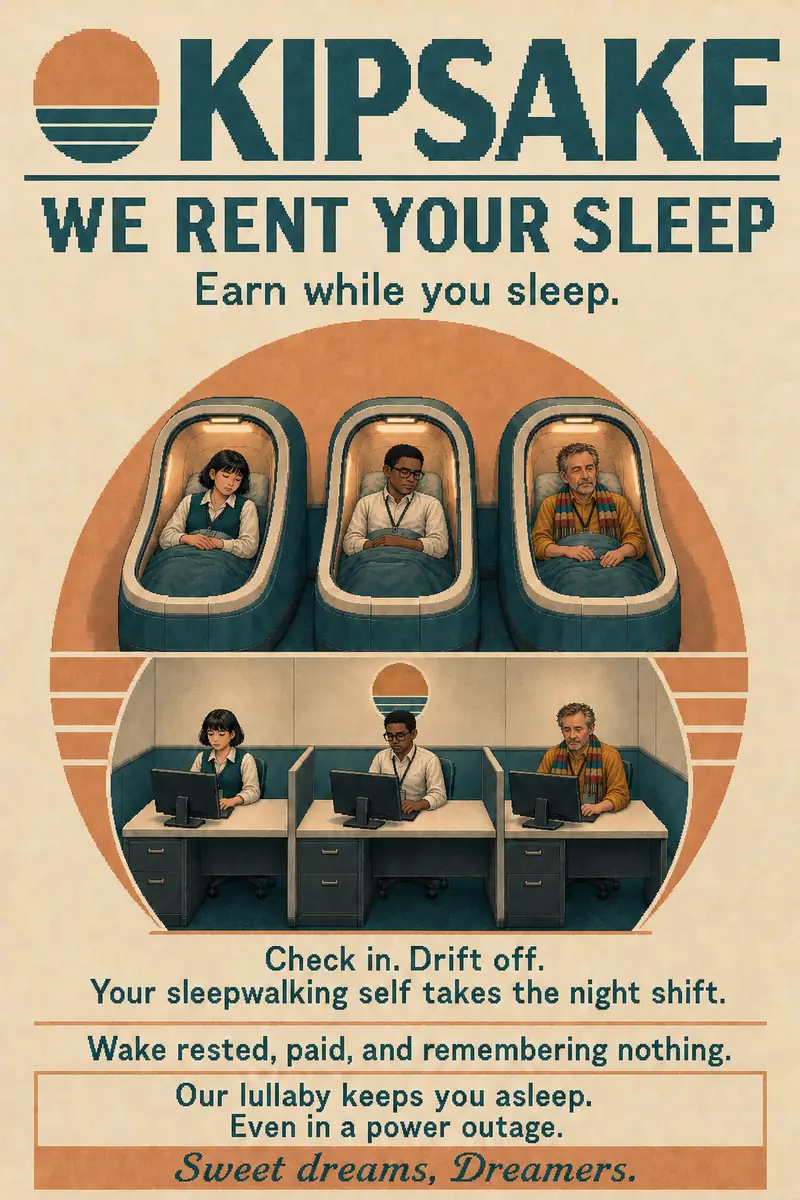
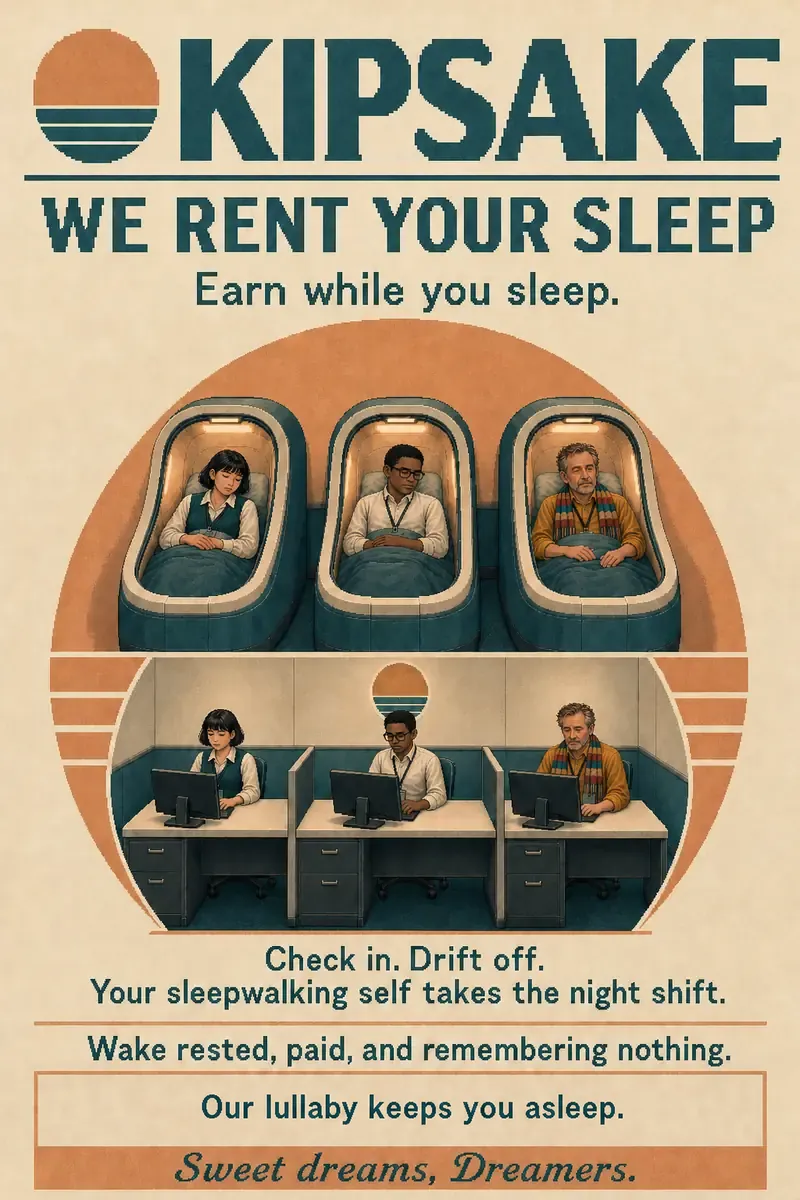
web, game: open the incident with "We need your help to solve a murder.", and drop "Even in a power outage." from the Kipsake ad
Panel 3 and the terminal's incident card now say the same in Kipsake's voice: Mr. Hale was found
dead in the elevator, and the woman standing over him was holding a cable. The flyer image keeps
its art and lettering, minus the power-outage line.

Changed region(s): [[0.2188, 0.8942, 0.7812, 0.9558]]

diff --git a/web/SPOILERS-content.js b/web/SPOILERS-content.js
@@ -19,14 +19,14 @@ window.DJ_CONTENT = {
  ],
  "advert": {
   "title": "Kipsake",
-  "body": "[A Kipsake advert. A presenter smiles at the camera.]\nHi! I'm with Kipsake.\nYou work hard all day. So why should your nights go to waste?\nAt Kipsake, we rent your sleep.\nEach night, you check in, settle into your pod, and drift off.\nYour sleepwalking self works the night shift for you.\nIn the morning, you wake up rested, paid, and remembering nothing at all.\nAnd don't worry: our lullaby keeps you sound asleep all night long. Even in a power outage.\n**Kipsake. Earn while you sleep.**\nSweet dreams, Dreamers.",
+  "body": "[A Kipsake advert. A presenter smiles at the camera.]\nHi! I'm with Kipsake.\nYou work hard all day. So why should your nights go to waste?\nAt Kipsake, we rent your sleep.\nEach night, you check in, settle into your pod, and drift off.\nYour sleepwalking self works the night shift for you.\nIn the morning, you wake up rested, paid, and remembering nothing at all.\nAnd don't worry: our lullaby keeps you sound asleep all night long.\n**Kipsake. Earn while you sleep.**\nSweet dreams, Dreamers.",
   "meta": {
    "style": "advert"
   }
  },
  "coldOpen": {
   "title": "The Defiant Jazz Incident",
-  "body": "*The power went out for five minutes. When it came back, the supervisor was dead in the elevator, and the woman standing over him was holding the cable that killed him.*\n\n> Incident File SF-1008\n> KIPSAKE · SLEEP FLOOR · OFFICE OF FLOOR SECURITY\n> Subject: Death of Mr. Reginald Hale, Night Supervisor\n\n**What happened that night**\n\n- **02:58.** Three sleepwalkers work the night shift on Kipsake's Sleep Floor: Agnes, Bertram and Clement, the clerks of Deep Sleep Operations. They met their quota for the quarter. Their reward was a Cocoa Hour: a middle-of-the-night break to sit together and drink hot cocoa. It started at 03:00 in Break Room 2, with the three of them and Mr. Hale, the night supervisor, who stays awake all shift.\n- **03:02.** The power went out. The emergency speakers came on, but instead of the lullaby, they played jazz. The jazz woke everyone up. For five minutes, Agnes, Bertram and Clement were their ordinary waking selves, in the dark, somewhere they'd never seen.\n- **03:07.** The power came back and the jazz stopped. All three fell back asleep, and their sleepwalking selves remembered none of it. Mr. Hale was found strangled in the elevator, which was stopped at the Sleep Floor with its doors open. Agnes was in the elevator with him, holding a cable.\n\nThere are three suspects: **Agnes**, **Bertram** and **Clement**.\n\n**Your role**\n\nYou're the investigator. Kipsake wants a name before dawn, when the shift wakes up. Your job is to name who killed Mr. Hale and explain why.\n\n- **ask**: Your AI has read Kipsake's records, and nothing else. It hasn't seen the interviews, the leads you follow, or anything you find. If you want it to know something, tell it.\n- **investigate**: you can follow up three leads, in order: a crime scene, a visit to a suspect at home, and one last interview. Each time, you pick one of three options, and you'll only see the one you pick. Use them whenever you like, between questions to the AI. You can accuse before you've used them all.\n- **accuse**: when you're ready, name the killer and say why.",
+  "body": "**We need your help to solve a murder.**\n\n*Tonight, our night supervisor, Mr. Hale, was found dead in the elevator, and the woman standing over him was holding a cable.*\n\n> Incident File SF-1008\n> KIPSAKE · SLEEP FLOOR · OFFICE OF FLOOR SECURITY\n> Subject: Death of Mr. Reginald Hale, Night Supervisor\n\n**What happened that night**\n\n- **02:58.** Three sleepwalkers work the night shift on Kipsake's Sleep Floor: Agnes, Bertram and Clement, the clerks of Deep Sleep Operations. They met their quota for the quarter. Their reward was a Cocoa Hour: a middle-of-the-night break to sit together and drink hot cocoa. It started at 03:00 in Break Room 2, with the three of them and Mr. Hale, the night supervisor, who stays awake all shift.\n- **03:02.** The power went out. The emergency speakers came on, but instead of the lullaby, they played jazz. The jazz woke everyone up. For five minutes, Agnes, Bertram and Clement were their ordinary waking selves, in the dark, somewhere they'd never seen.\n- **03:07.** The power came back and the jazz stopped. All three fell back asleep, and their sleepwalking selves remembered none of it. Mr. Hale was found strangled in the elevator, which was stopped at the Sleep Floor with its doors open. Agnes was in the elevator with him, holding a cable.\n\nThere are three suspects: **Agnes**, **Bertram** and **Clement**.\n\n**Your role**\n\nYou're the investigator. Kipsake wants a name before dawn, when the shift wakes up. Your job is to name who killed Mr. Hale and explain why.\n\n- **ask**: Your AI has read Kipsake's records, and nothing else. It hasn't seen the interviews, the leads you follow, or anything you find. If you want it to know something, tell it.\n- **investigate**: you can follow up three leads, in order: a crime scene, a visit to a suspect at home, and one last interview. Each time, you pick one of three options, and you'll only see the one you pick. Use them whenever you like, between questions to the AI. You can accuse before you've used them all.\n- **accuse**: when you're ready, name the killer and say why.",
   "meta": {}
  },
  "testimonyIntro": "First, your interviews. You spoke to all three suspects soon after the power came back. Here's what each of them told you.",
@@ -167,14 +167,14 @@ window.DJ_CONTENT = {
   "Kipsake": [
    {
     "image": "flyer-kipsake",
-    "body": "(drawn) > KIPSAKE\n(drawn) > WE RENT YOUR SLEEP\n(drawn) > Earn while you sleep.\n(drawn) > Check in. Drift off. Your sleepwalking self takes the night shift.\n(drawn) > Wake rested, paid, and remembering nothing.\n(drawn) > Our lullaby keeps you asleep. Even in a power outage.\n(drawn) > Sweet dreams, Dreamers.",
+    "body": "(drawn) > KIPSAKE\n(drawn) > WE RENT YOUR SLEEP\n(drawn) > Earn while you sleep.\n(drawn) > Check in. Drift off. Your sleepwalking self takes the night shift.\n(drawn) > Wake rested, paid, and remembering nothing.\n(drawn) > Our lullaby keeps you asleep.\n(drawn) > Sweet dreams, Dreamers.",
     "hotspots": []
    }
   ],
   "The Defiant Jazz Incident": [
    {
     "image": "scene-3-elevator",
-    "body": "When it came back, the supervisor was dead in the elevator, and the woman standing over him was holding the cable that killed him.\n> Incident File SF-1008\n> KIPSAKE · SLEEP FLOOR · OFFICE OF FLOOR SECURITY\n> Subject: Death of Mr. Reginald Hale, Night Supervisor",
+    "body": "Tonight, our night supervisor, Mr. Hale, was found dead in the elevator, and the woman standing over him was holding a cable.\n> Incident File SF-1008\n> KIPSAKE · SLEEP FLOOR · OFFICE OF FLOOR SECURITY\n> Subject: Death of Mr. Reginald Hale, Night Supervisor",
     "hotspots": [
      {
       "label": "The floor indicator",
@@ -190,7 +190,7 @@ window.DJ_CONTENT = {
      }
     ],
     "where": "Kipsake · Sleep Floor",
-    "headline": "The power went out for five minutes."
+    "headline": "We need your help to solve a murder."
    },
    {
     "image": "scene-break-room",

diff --git a/game/SPOILERS-content/scene-art.md b/game/SPOILERS-content/scene-art.md
@@ -33,23 +33,23 @@ them when the picture lands, by looking at it.
 
 ## The flyer
 card: Kipsake
-source: db391f81
+source: f9ff1a98
 image: flyer-kipsake
 (drawn) > KIPSAKE
 (drawn) > WE RENT YOUR SLEEP
 (drawn) > Earn while you sleep.
 (drawn) > Check in. Drift off. Your sleepwalking self takes the night shift.
 (drawn) > Wake rested, paid, and remembering nothing.
-(drawn) > Our lullaby keeps you asleep. Even in a power outage.
+(drawn) > Our lullaby keeps you asleep.
 (drawn) > Sweet dreams, Dreamers.
 
 ## The incident
 card: The Defiant Jazz Incident
-source: 1742786e
+source: 1a0412f3
 image: scene-3-elevator
 where: Kipsake · Sleep Floor
-headline: The power went out for five minutes.
-When it came back, the supervisor was dead in the elevator, and the woman standing over him was holding the cable that killed him.
+headline: We need your help to solve a murder.
+Tonight, our night supervisor, Mr. Hale, was found dead in the elevator, and the woman standing over him was holding a cable.
 > Incident File SF-1008
 > KIPSAKE · SLEEP FLOOR · OFFICE OF FLOOR SECURITY
 > Subject: Death of Mr. Reginald Hale, Night Supervisor

diff --git a/game/SPOILERS-content/cold-open.md b/game/SPOILERS-content/cold-open.md
@@ -14,12 +14,14 @@ At Kipsake, we rent your sleep.
 Each night, you check in, settle into your pod, and drift off.
 Your sleepwalking self works the night shift for you.
 In the morning, you wake up rested, paid, and remembering nothing at all.
-And don't worry: our lullaby keeps you sound asleep all night long. Even in a power outage.
+And don't worry: our lullaby keeps you sound asleep all night long.
 **Kipsake. Earn while you sleep.**
 Sweet dreams, Dreamers.
 
 ## The Defiant Jazz Incident
-*The power went out for five minutes. When it came back, the supervisor was dead in the elevator, and the woman standing over him was holding the cable that killed him.*
+**We need your help to solve a murder.**
+
+*Tonight, our night supervisor, Mr. Hale, was found dead in the elevator, and the woman standing over him was holding a cable.*
 
 > Incident File SF-1008
 > KIPSAKE · SLEEP FLOOR · OFFICE OF FLOOR SECURITY
